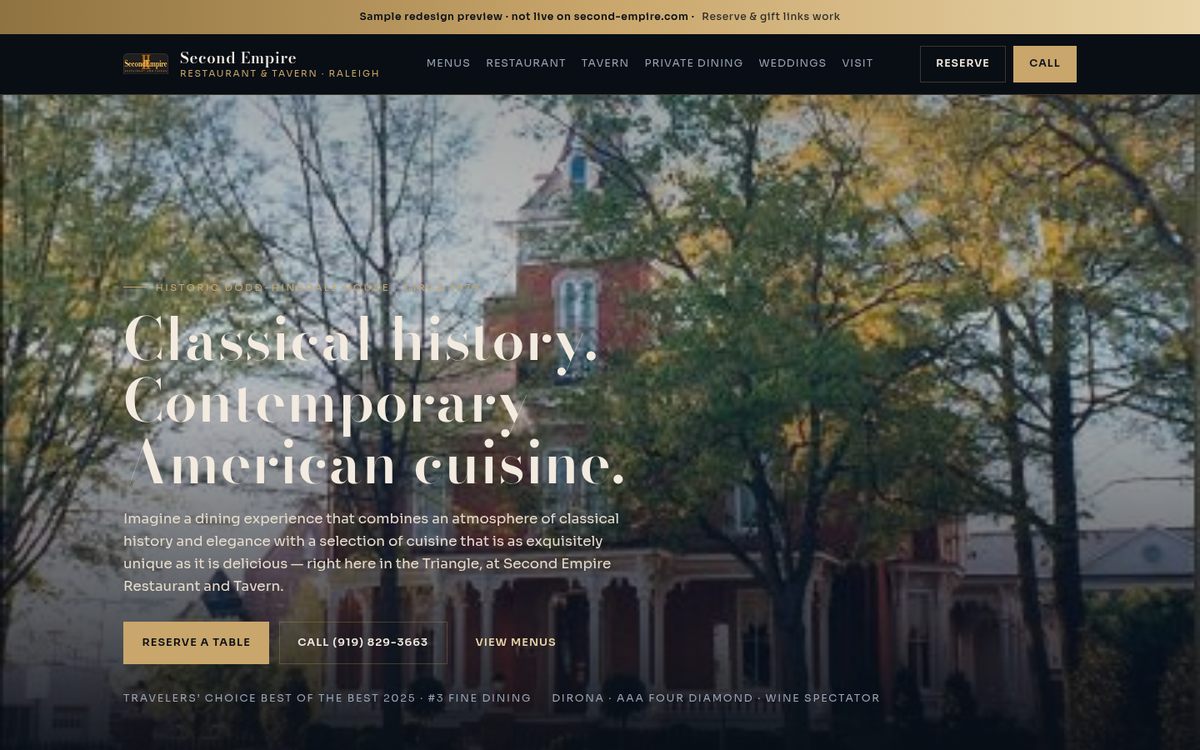
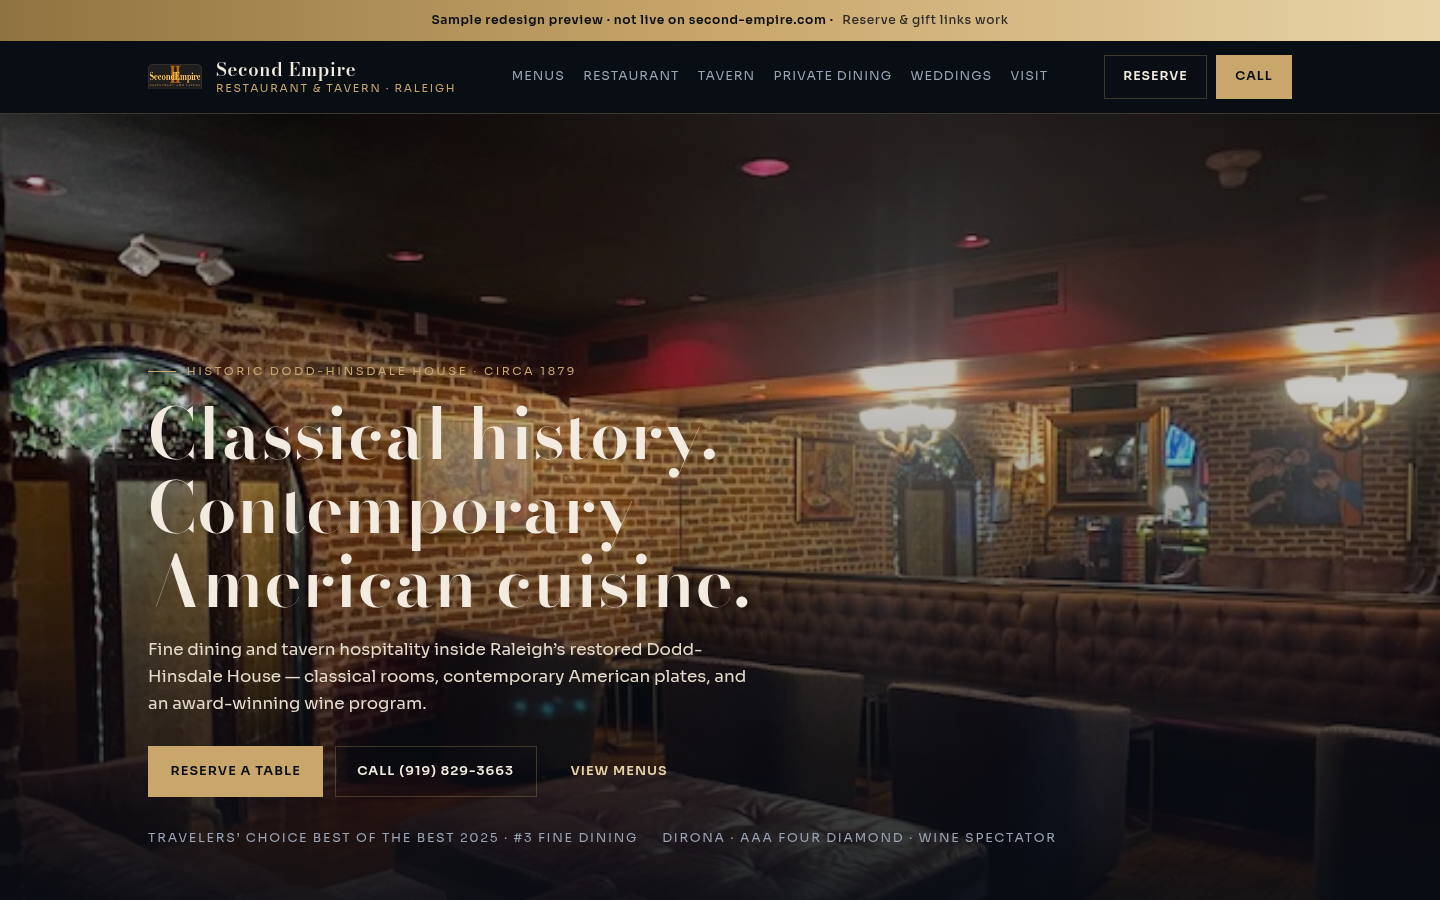
Polish Second Empire preview: tavern hero, house mosaic, mobile CTAs

diff --git a/index.html b/index.html
@@ -62,13 +62,13 @@
 
     <section class="hero">
       <div class="hero-media" aria-hidden="true">
-        <img src="assets/house-front.jpg" alt="" width="407" height="273" fetchpriority="high" />
+        <img src="assets/img-7477.jpg" alt="" width="960" height="720" fetchpriority="high" />
       </div>
       <div class="hero-shade" aria-hidden="true"></div>
       <div class="hero-content">
         <p class="eyebrow">Historic Dodd-Hinsdale House · Circa 1879</p>
         <h1>Classical history. Contemporary American cuisine.</h1>
-        <p class="hero-lead">Imagine a dining experience that combines an atmosphere of classical history and elegance with a selection of cuisine that is as exquisitely unique as it is delicious — right here in the Triangle, at Second Empire Restaurant and Tavern.</p>
+        <p class="hero-lead">Fine dining and tavern hospitality inside Raleigh’s restored Dodd-Hinsdale House — classical rooms, contemporary American plates, and an award-winning wine program.</p>
         <div class="hero-actions">
           <a class="btn btn-primary btn-lg" href="https://www.opentable.com/r/second-empire-restaurant-and-tavern-reservations-raleigh?restref=36919&lang=en-US&ot_source=Restaurant%20website" target="_blank" rel="noopener">Reserve a Table</a>
           <a class="btn btn-secondary btn-lg" href="tel:9198293663">Call (919) 829-3663</a>
@@ -106,6 +106,10 @@
 
     <section class="photo-mosaic" aria-label="The house">
       <div class="photo-mosaic-grid">
+        <figure class="tile">
+          <img src="assets/house-front.jpg" alt="Historic Dodd-Hinsdale House" width="407" height="273" loading="lazy" />
+          <figcaption class="tile-caption">The House · 1879</figcaption>
+        </figure>
         <figure class="tile">
           <img src="assets/empire-room.jpg" alt="Dining room at Second Empire" width="640" height="480" loading="lazy" />
           <figcaption class="tile-caption">Main dining</figcaption>

diff --git a/assets/styles.css b/assets/styles.css
@@ -408,7 +408,8 @@ h1, .display-h1 {
 .tile:nth-child(2) { grid-column: span 3; min-height: 16rem; }
 .tile:nth-child(3),
 .tile:nth-child(4),
-.tile:nth-child(5) { grid-column: span 2; }
+.tile:nth-child(5),
+.tile:nth-child(6) { grid-column: span 2; }
 .tile-caption {
   position: absolute;
   left: 0;
@@ -711,3 +712,57 @@ h1, .display-h1 {
   .tile:nth-child(1) { grid-column: span 4; }
   .tile:nth-child(2) { grid-column: span 2; }
 }
+
+/* Mobile header: keep Call + menu, hide Reserve to prevent brand overlap */
+@media (max-width: 979px) {
+  .nav-ctas .btn-secondary { display: none !important; }
+  .brand-text { display: none; }
+  .nav-ctas .btn-primary { padding: .65rem .95rem; font-size: .82rem; }
+  .brand img { width: 44px; height: auto; max-height: 44px; }
+}
+
+.photo-rail {
+  display: grid;
+  grid-template-columns: repeat(2, 1fr);
+  gap: .75rem;
+}
+@media (min-width: 720px) {
+  .photo-rail { grid-template-columns: repeat(3, 1fr); }
+}
+@media (min-width: 1100px) {
+  .photo-rail { grid-template-columns: repeat(6, 1fr); }
+}
+.photo-rail figure {
+  margin: 0;
+  border-radius: 14px;
+  overflow: hidden;
+  aspect-ratio: 3/4;
+  position: relative;
+  background: #222;
+}
+.photo-rail img {
+  width: 100%;
+  height: 100%;
+  object-fit: cover;
+  display: block;
+}
+.photo-rail figcaption {
+  position: absolute;
+  left: 0; right: 0; bottom: 0;
+  padding: .7rem .75rem;
+  font-size: .72rem;
+  font-weight: 700;
+  letter-spacing: .04em;
+  text-transform: uppercase;
+  color: #fff;
+  background: linear-gradient(transparent, rgba(0,0,0,.72));
+}
+.card-media { min-height: 180px; }
+.card-media img { width: 100%; height: 100%; object-fit: cover; display: block; }
+
+.call-short{display:none}
+@media (max-width:979px){
+  .call-full{display:none}
+  .call-short{display:inline}
+}
+

diff --git a/PITCH.md b/PITCH.md
@@ -8,17 +8,17 @@
 
 ## Cold email (no Stripe)
 
-**Subject:** Free redesign sample for Second Empire (Dodd-Hinsdale House)
+**Subject:** Quick redesign sample for Second Empire (Raleigh)
 
-Hi Kim, Ashley, Daniel, and the Second Empire team —
+Hi Second Empire team —
 
-I’m Roman with Roman Sites, a small Raleigh shop that rebuilds restaurant websites into clean, mobile-friendly previews.
+I'm Roman with Roman Sites, a small Raleigh shop that rebuilds restaurant websites into clean, mobile-friendly previews.
 
-I rebuilt a sample of Second Empire using your real copy — the Dodd-Hinsdale House story, Travelers’ Choice #3 Fine Dining 2025, DiRoNa / AAA Four Diamond / Wine Spectator years as you list them (including 1999–2006), OpenTable reserve, Heartland gift certificates, Chef’s Table with Amanda, and Ashley’s events packet — so guests can actually find the table on a phone:
+I put together a free sample redesign of Second Empire with your OpenTable, gift certificate, and events links working:
 
 [View the redesign](https://romanstocksdumbmoney.github.io/second-empire-preview/)
 
-The preview is free to look at. If you like it and want it live on second-empire.com (replacing the ©2007 / second-empire-12 brochure layout), the flat handoff fee is **$1,200**. Local rebuild quotes for similar fine-dining sites often run **$4,500–$6,000**. No pressure either way — happy to tweak the sample if anything feels off.
+The preview is free to look at. If you like it and want it live on second-empire.com, the flat handoff fee is **$700** (local rebuild quotes for similar work often run $3,000–$5,000). No pressure either way — happy to tweak the sample if anything feels off.
 
 Roman  
 Roman Sites  
@@ -29,9 +29,8 @@ romansites365@gmail.com
 
 ## Notes
 
-- Cold email only — **no** Stripe / payment link.
-- Specific to THEIR site: Dodd-Hinsdale, Travelers’ Choice 2025 #3, awards as published, OpenTable + Heartland gifts, Chef’s Table, events PDF, fax still on old footer, WP theme second-empire-12.
-- CTA phrase: **View the redesign**
-- Offer: **$1,200** vs market **$4,500–$6,000**
-- Preview URL: https://romanstocksdumbmoney.github.io/second-empire-preview/
-- **Do not send** until Dominic approves (sites-only wave).
+- Cold email only — **no** Stripe.
+- Short Glenwood-style letter.
+- CTA: **View the redesign** (hyperlinked in HTML send — never bare URL).
+- Offer: **$700** vs market **$3,000–$5,000**
+- Do not send until Dominic says go.
